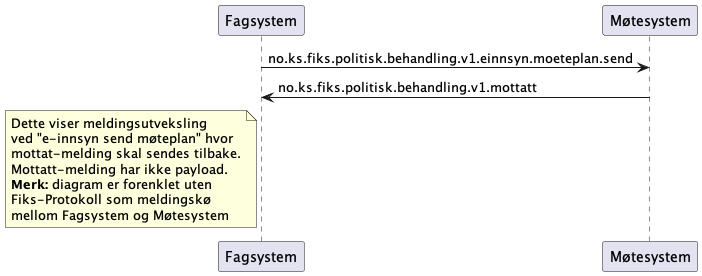
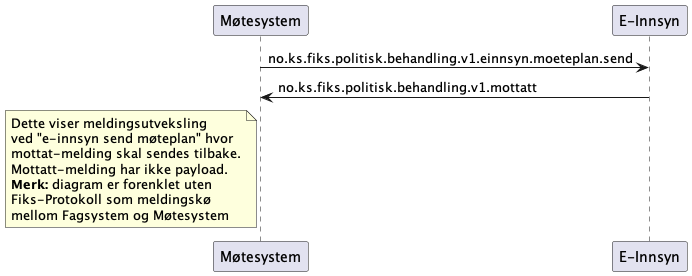
Oppdatert diagrammer og README's i henhold til kommentarer

diff --git a/README.md b/README.md
@@ -1,4 +1,4 @@
-# Kontrakter for Fiks Politisk Behandling
+# Kontrakter og dokumentasjon for Fiks Politisk Behandling
 
 *Under arbeid*
 
@@ -10,9 +10,11 @@ Schemas vil bli inkludert i pakker med genererte models basert på schemas i and
 
 ### Dokumentasjon
 
-For hver versjon av dokumentasjonen vil det følge en egen dokumentasjon.
-
+For hver versjon av protokollen vil det følge en egen dokumentasjon som baserer seg på Markdown og PlantUML.
+Når man gjør endringer i PlantUML koden kan man kjøre `generate-png-from-puml.sh` scriptet for å generere png filer ut av PlantUML koden.
+Dette forutsetter at man har installert PlantUML og graphviz.
 #### [Politisk Behandling V1](/Dokumentasjon/V1)
+ 
 
 
 

diff --git a/Dokumentasjon/V1/meldingsutveksling/utvalg-hent/README.md b/Dokumentasjon/V1/meldingsutveksling/utvalg-hent/README.md
@@ -1,5 +1,7 @@
 ## Hent utvalg
 
+Hent utvalg skal **ikke** bruke `ikkefunnet` feilmeldingen. Hvis det ikke er noe utvalg skal det returneres et tomt resultat.
+
 ### Klassediagram
 *Merk at denne kan være litt utdatert*
 
@@ -7,11 +9,8 @@
 
 
 ### Sekvensdiagram
-#### Hent utvalg ok med resultat melding i retur:
+#### Hent utvalg ok med resultat-melding i retur:
 ![sekvensdiagram](sekvensdiagram/sekvensdiagram-utvalg-hent.png)
-
-#### Hent utvalg feiler med ikke funnet i retur:
-![sekvensdiagram](sekvensdiagram/sekvensdiagram-utvalg-hent-ikkefunnet.png)
 
 #### Hent utvalg feiler med ugyldigforespørsel i retur:
 ![sekvensdiagram](sekvensdiagram/sekvensdiagram-utvalg-hent-ugyldigforespoersel.png)

diff --git a/Dokumentasjon/V1/meldingsutveksling/møteplan-hent/README.md b/Dokumentasjon/V1/meldingsutveksling/møteplan-hent/README.md
@@ -11,6 +11,10 @@
 ![sekvensdiagram](sekvensdiagram/sekvensdiagram-møteplan-hent.png)
 
 #### Hent møteplan feiler med ikke funnet i retur:
+Det skal kun sendes en `ikkefunnet` melding hvis det er feil i hent-parameterene. 
+Det skal ikke sendes en `ikkefunnet` hvis det ikke er funnet noen møter i perioden man har søket på.
+Da skal det returneres et tomt resultat.
+
 ![sekvensdiagram](sekvensdiagram/sekvensdiagram-møteplan-hent-ikkefunnet.png)
 
 #### Hent møteplan feiler med ugyldigforespørsel i retur:

diff --git a/Dokumentasjon/V1/meldingsutveksling/utvalgssak-send-med-vedtakfrautvalg-send/README.md b/Dokumentasjon/V1/meldingsutveksling/utvalgssak-send-med-vedtakfrautvalg-send/README.md
@@ -1,0 +1,7 @@
+## Send utvalgssak og send vedtak fra utvalg tilbake
+
+*Under arbeid* 
+
+### Sekvensdiagram
+#### Send utvalgssak fra Fagsystem og send vedtak fra utvalg fra Møtesystem
+![sekvensdiagram](sekvensdiagram/sekvensdiagram-utvalgssak-send-med-vedtakfrautvalg-send.png)
